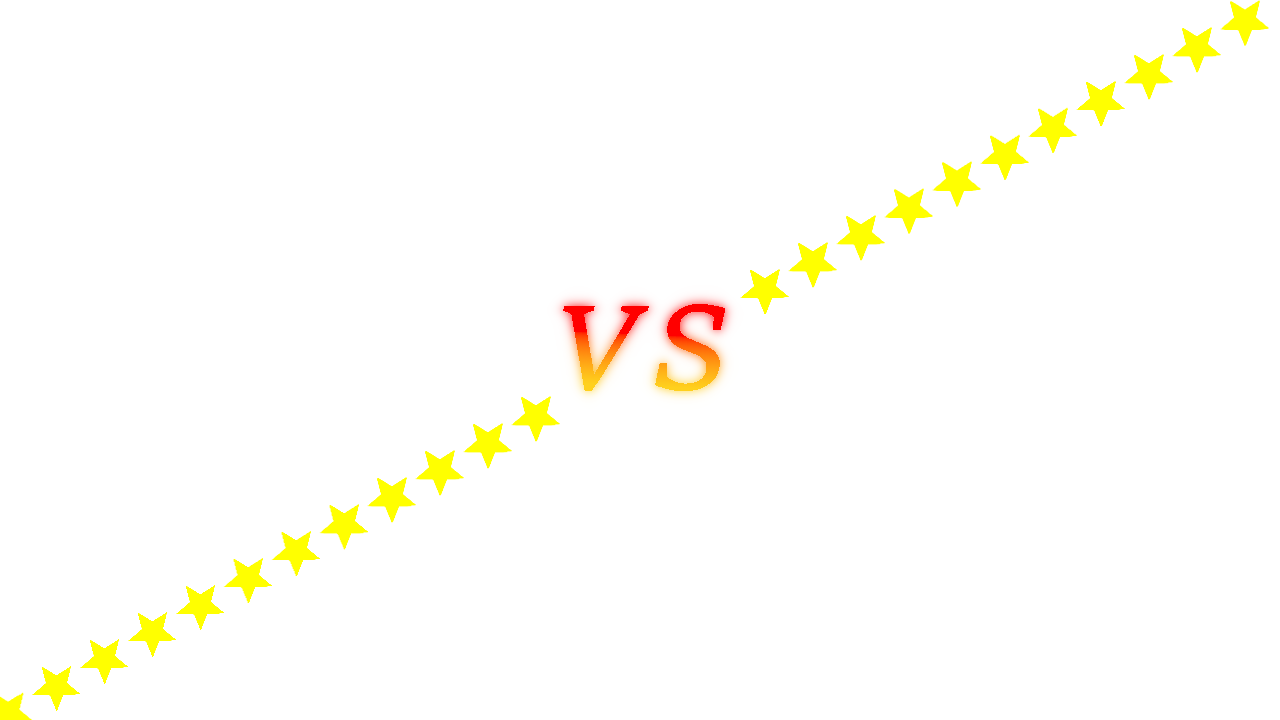
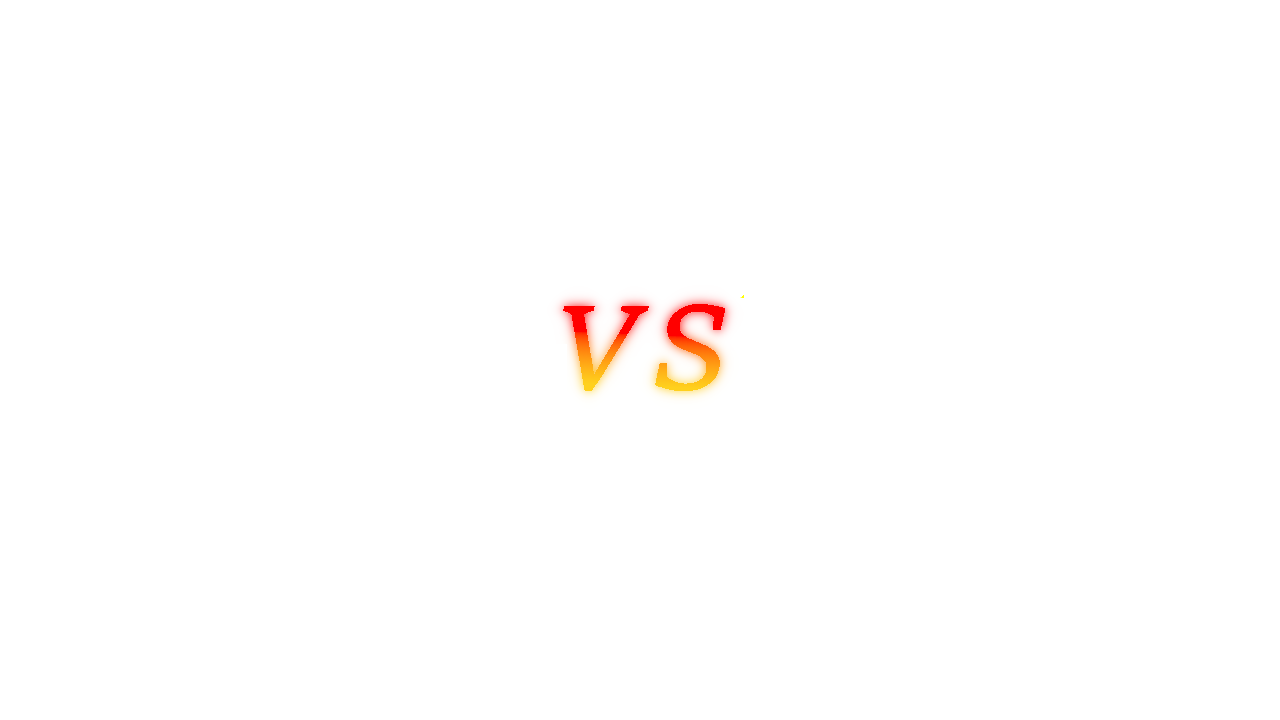
接触じゃんけん演出

Changed region(s): [[0.0, 0.55, 0.4375, 1.0], [0.5625, 0.1222, 0.875, 0.4278], [0.875, 0.0, 1.0, 0.1222]]

diff --git a/Rock-Paper-Scissors/Janken_Star.cpp b/Rock-Paper-Scissors/Janken_Star.cpp
@@ -1,0 +1,41 @@
+#include "Janken_Star.h"
+#include "DxLib.h"
+#include<math.h>
+
+Janken_Star::Janken_Star(const float& x, const float& y, const float& targetX, const float& targetY)
+	:x(x), y(y), speed(13.0f), rate(0.0)
+{
+	image = LoadGraph("images/Janken/star.png");
+	angle = atan2f(targetY - y, targetX - x);
+	type = GetRand(100) + 120;
+}
+
+Janken_Star::~Janken_Star()
+{
+}
+
+void Janken_Star::Update()
+{
+	x += cosf(angle) * speed;
+	y += sinf(angle) * speed;
+
+	if (type > 110) rate += 0.1;
+	else rate -= 0.1;
+}
+
+void Janken_Star::Draw() const
+{
+
+	SetDrawBlendMode(DX_BLENDMODE_ADD, type);
+	SetDrawBright(255, 165, 0);
+	DrawRotaGraph(x, y, 1.2, rate, image, TRUE);
+	SetDrawBright(255, 255, 255);
+	SetDrawBlendMode(DX_BLENDMODE_NOBLEND, 200);
+	DrawRotaGraph(x, y, 1.0, rate, image, TRUE);
+}
+
+bool Janken_Star::CheckScreenOut()
+{
+	if (x < -50 || x > 1330 || y < -50 || y > 780) return true;
+	return false;
+}
